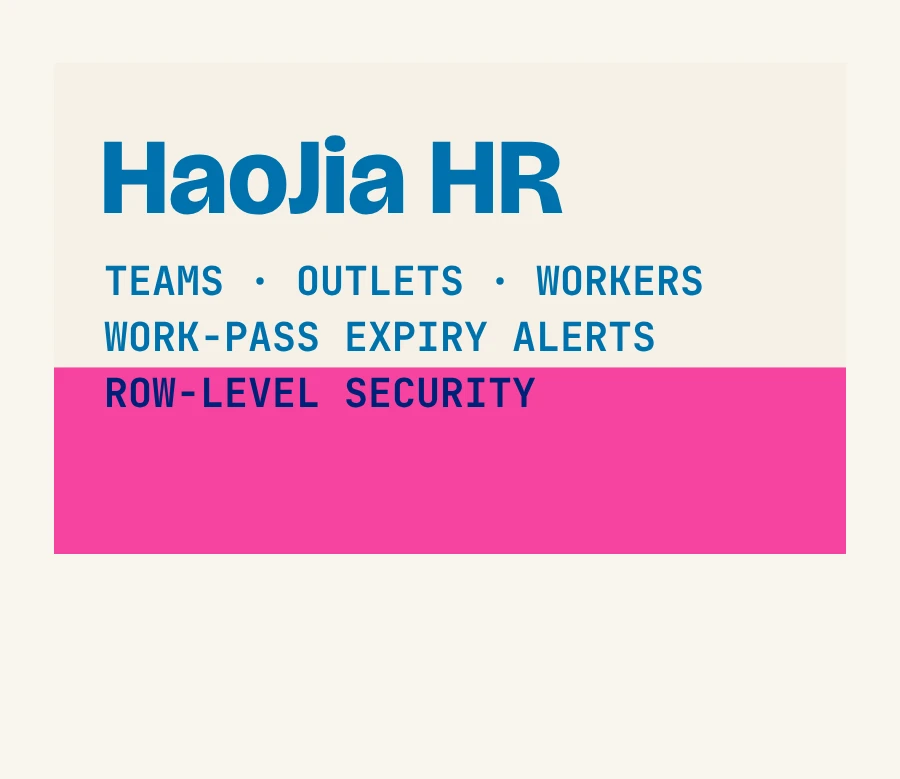
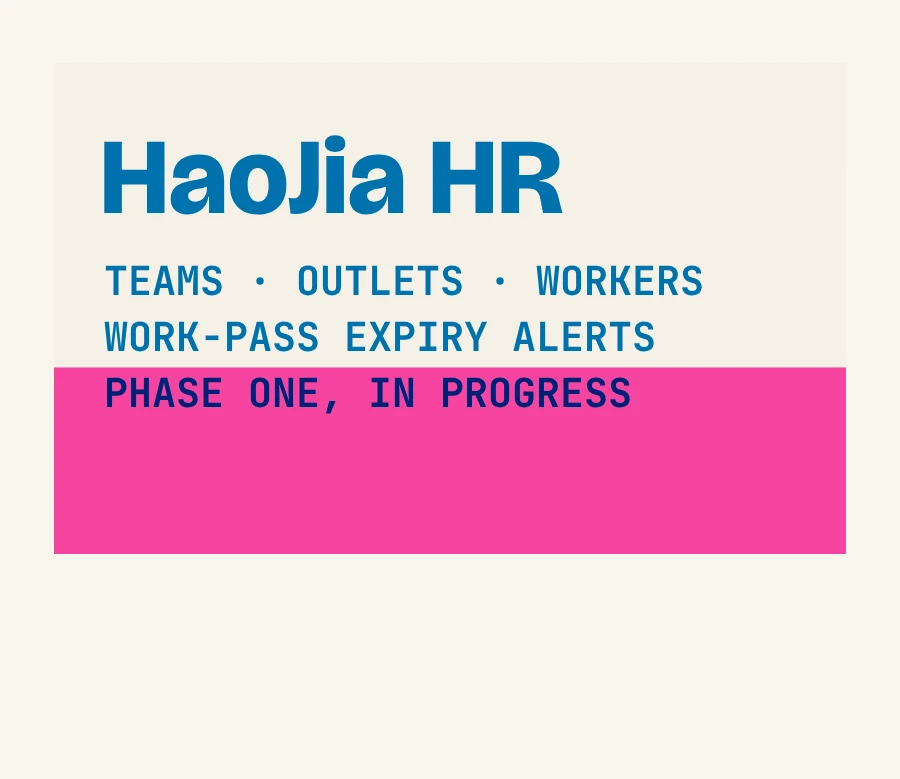
Keep project copy to what the code shows
HaoJia HR is marked in progress with its real stack (React, TypeScript,
Vite, Supabase, React Hook Form, Zod); Tailwind and row-level security
are only in its design spec. Drop an unsupported claim about kacha and
soften Little Lemon's line. Brief updated so critics check against it.

Claude-Session: https://claude.ai/code/session_016nJieuj3hz1PRLzcMUTyK7

Changed region(s): [[0.1244, 0.4621, 0.7156, 0.5237]]

diff --git a/site/js/chapters/room.js b/site/js/chapters/room.js
@@ -245,13 +245,17 @@ export class RoomChapter {
     this.camera.updateProjectionMatrix();
   }
 
-  // Flight parameter c: -1 at the establishing shot, j at card j, n past the last.
+  // Flight parameter c: -1 at the establishing shot, j at card j, n - 0.5 at the end.
+  // The camera slows to 1 - DWELL speed at each card. The first and last half card ease
+  // from and to rest, so the flight neither jumps off the entry nor stops dead.
   flight(v) {
     const n = this.cards.length;
     const u = progress(v, T.projects.flight) * n;
-    const s = u - (DWELL * Math.sin(2 * Math.PI * (u - 0.5))) / (2 * Math.PI);
     const enter = smooth(progress(v, [T.transitions.wallToRoom[0], T.projects.flight[0]]));
-    return v < T.projects.flight[0] ? -1 + 0.5 * enter : s - 0.5;
+    if (v < T.projects.flight[0]) return -1 + 0.5 * enter;
+    if (u < 0.5) return 0.5 * hermite(2 * u, 0, 1 - DWELL) - 0.5;
+    if (u > n - 0.5) return n - 1 + 0.5 * hermite(2 * u - 2 * n + 1, 1 - DWELL, 0);
+    return u - (DWELL * Math.sin(2 * Math.PI * (u - 0.5))) / (2 * Math.PI) - 0.5;
   }
 
   update(v, time) {
@@ -259,9 +263,11 @@ export class RoomChapter {
     const t = clamp01((c + 1) / (this.keyCount - 1));
     this.camera.position.copy(this.posCurve.getPoint(t));
     const look = this.lookCurve.getPoint(t);
+    const heading = Math.atan2(look.x - this.camera.position.x, this.camera.position.z - look.z);
     if (this.camera.aspect < 1) this.camera.position.x += 0.9;
     this.camera.lookAt(look);
     this.light.position.z = this.camera.position.z;
+    this.light.rotation.y = RIG_HEADING - heading;
 
     this.cards.forEach((mesh, j) => {
       const home = mesh.userData.home;
@@ -275,7 +281,8 @@ export class RoomChapter {
     this.dust.rotation.y = Math.sin(time * 0.05) * 0.02;
     this.dust.position.y = Math.sin(time * 0.17) * 0.12;
     // Beams are ribbons along their axis, turned to face the camera (in the light's frame).
-    VIEW.subVectors(this.camera.position, this.light.position);
+    const turn = this.light.rotation.y;
+    VIEW.subVectors(this.camera.position, this.light.position).applyAxisAngle(UP, -turn);
     this.beams.forEach((beam, i) => {
       beam.material.opacity = 0.85 + Math.sin(time * 0.7 + i * 2.1) * 0.15;
       const { from, to } = beam.userData;
@@ -285,8 +292,8 @@ export class RoomChapter {
       SIDE.crossVectors(FACE, AXIS);
       BASIS.makeBasis(AXIS, SIDE, FACE);
       beam.quaternion.setFromRotationMatrix(BASIS);
-      this.beamUniforms.uBeamFrom.value[i].addVectors(from, this.light.position);
-      this.beamUniforms.uBeamTo.value[i].addVectors(to, this.light.position);
+      this.beamUniforms.uBeamFrom.value[i].copy(from).applyAxisAngle(UP, turn).add(this.light.position);
+      this.beamUniforms.uBeamTo.value[i].copy(to).applyAxisAngle(UP, turn).add(this.light.position);
     });
   }
 

diff --git a/site/index.html b/site/index.html
@@ -83,15 +83,15 @@
         <li class="project" data-project="2">
           <p class="meta mono">Personal project · 2026</p>
           <h3>kacha</h3>
-          <p>A photobooth in the browser. Choose a strip, take your shots, edit them with filters, and keep every strip in an album of memories. Yes, it's where this site's idea came from.</p>
+          <p>A photobooth in the browser. Choose a strip, take your shots, edit them with filters, and keep every strip in an album of memories.</p>
           <ul class="stack mono"><li>React 19</li><li>Vite</li><li>Supabase Auth</li><li>Express</li></ul>
           <p class="links"><a href="https://kacha-smoky.vercel.app" target="_blank" rel="noopener">Live site ↗</a><a href="https://github.com/Uwe1209/kacha" target="_blank" rel="noopener">Code ↗</a></p>
         </li>
         <li class="project" data-project="3">
-          <p class="meta mono">2026 · Full-stack</p>
+          <p class="meta mono">2026 · Full-stack · in progress</p>
           <h3>HaoJia HR</h3>
-          <p>An HR system for a food and beverage group with several outlets. It replaces the staff spreadsheet with one source of truth: teams, outlets, worker profiles and work-pass expiry warnings, with role-based access enforced in the database.</p>
-          <ul class="stack mono"><li>React</li><li>TypeScript</li><li>Tailwind</li><li>Supabase</li><li>Row-level security</li></ul>
+          <p>An HR system for a food and beverage group with several outlets, replacing the staff spreadsheet with one source of truth. Phase one covers teams, outlets and worker profiles, with work-pass expiry warnings and role-based access designed into the database.</p>
+          <ul class="stack mono"><li>React</li><li>TypeScript</li><li>Vite</li><li>Supabase</li><li>React Hook Form</li><li>Zod</li></ul>
           <p class="links"><a href="https://github.com/Uwe1209/HaoJiaHRSystem" target="_blank" rel="noopener">Code ↗</a></p>
         </li>
         <li class="project" data-project="4">
@@ -125,7 +125,7 @@
         <li class="project" data-project="8">
           <p class="meta mono">Meta Front-End course · 2024</p>
           <h3>Little Lemon</h3>
-          <p>A restaurant site built with only HTML and CSS. Where it started.</p>
+          <p>A restaurant site built with only HTML and CSS, one of my first projects.</p>
           <ul class="stack mono"><li>HTML</li><li>CSS</li></ul>
           <p class="links"><a href="https://github.com/Uwe1209/Little-Lemon-project" target="_blank" rel="noopener">Code ↗</a></p>
         </li>

diff --git a/tools/bake/manifest.js b/tools/bake/manifest.js
@@ -289,7 +289,7 @@ export const TEXTURES = {
   'card-spex': { make: (p) => instant(p, 'spexMap', 'SPEX: catch it in the animals', { ratio: 0.7, seed: 101 }) },
   'card-buildup': { make: (p) => instant(p, 'pitch', 'BuildUp at URIIS 2026', { ratio: 0.66, pose: { zoom: 1.15, focusX: 0.52, focusY: 0.42 }, seed: 102 }) },
   'card-kacha': { make: (p) => instant(p, 'kacha', 'kacha! a photobooth', { ratio: 1.0, seed: 103 }) },
-  'card-haojia': { make: () => typeCard('HaoJia HR', ['teams · outlets · workers', 'work-pass expiry alerts', 'row-level security'], { seed: 104 }) },
+  'card-haojia': { make: () => typeCard('HaoJia HR', ['teams · outlets · workers', 'work-pass expiry alerts', 'phase one, in progress'], { seed: 104 }) },
   'card-petaid': { make: () => typeCard('PetAid', ['first aid for pets', 'owners · vets · admins', 'react + express'], { ink: '#ff48b0', accent: '#0078bf', seed: 105 }) },
   'card-herbarium': { make: (p) => instant(p, 'herbarium', 'herbarium project', { ratio: 0.6, seed: 106 }) },
   'card-aws': { make: (p) => instant(p, 'aws', 'AWS, drawn properly', { ratio: 0.8, seed: 107 }) },

diff --git a/workbench/brief.md b/workbench/brief.md
@@ -25,7 +25,7 @@ Read this first if you are picking the project up from disk.
 | SPEX | Uwe1209/spex002, Uwe1209/SPEX_Disease | FYP, led a team of five. 38 animal diseases, 245 countries, calibrated 12-month risk. FastAPI on Railway, frontend on Vercel, Supabase Postgres, weekly refresh. Stack also includes React, TypeScript, three.js (scroll story) and LightGBM models (spex002 package.json and README). Live: spex-disease.vercel.app |
 | BuildUp | resume | URIIS Student Biz Innov Challenge 2026, Top 5. National AI talent platform concept: skills matching, AI career coach on the Anthropic API, Skills Passport, workforce dashboards |
 | kacha | Uwe1209/kacha | Photobooth web app: choose strip, camera, filters editor, album/memories. React 19, Vite, Supabase, Express. Live: kacha-smoky.vercel.app |
-| HaoJia HR | Uwe1209/HaoJiaHRSystem | HR system for a multi-outlet F&B operator: org + worker directory, RLS roles, work-pass expiry. React, TS, Tailwind, Supabase. (fnb-hr-portal repo is empty, folded in here) |
+| HaoJia HR | Uwe1209/HaoJiaHRSystem | HR system for a multi-outlet F&B operator: org + worker directory, work-pass expiry. In progress: code is React, TypeScript, Vite, Supabase client, React Hook Form, Zod; Tailwind and RLS policies are in the design spec but not in the repo yet, so don't claim them as built. (fnb-hr-portal repo is empty, folded in here) |
 | PetAid | Uwe1209/pet-aids | Pet first-aid web app with owner, vet and admin roles. React, Vite, Express |
 | Herbarium / Plant Biodiversity | Uwe1209/PlantBiodiversityProject | COS30020. PHP site for participants to upload plant photos and data for researchers |
 | Bar | Uwe1209/Bar | COS30043 IDD. Online drinks shop with cart and accounts. Product shots show real beer brands: keep logos off the card |
